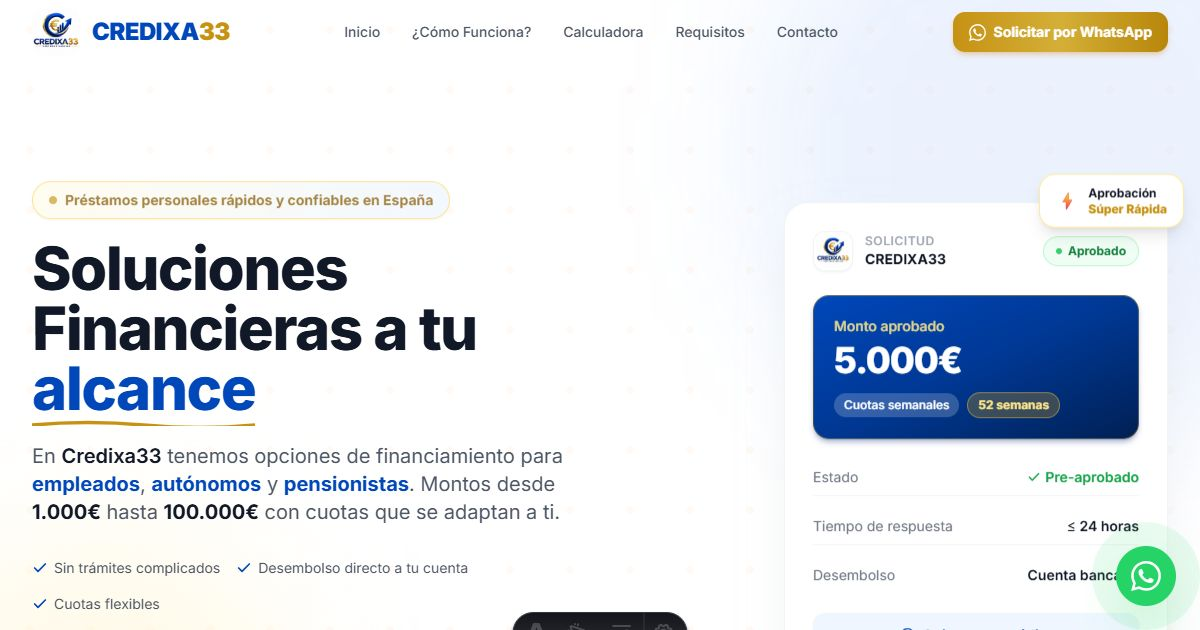
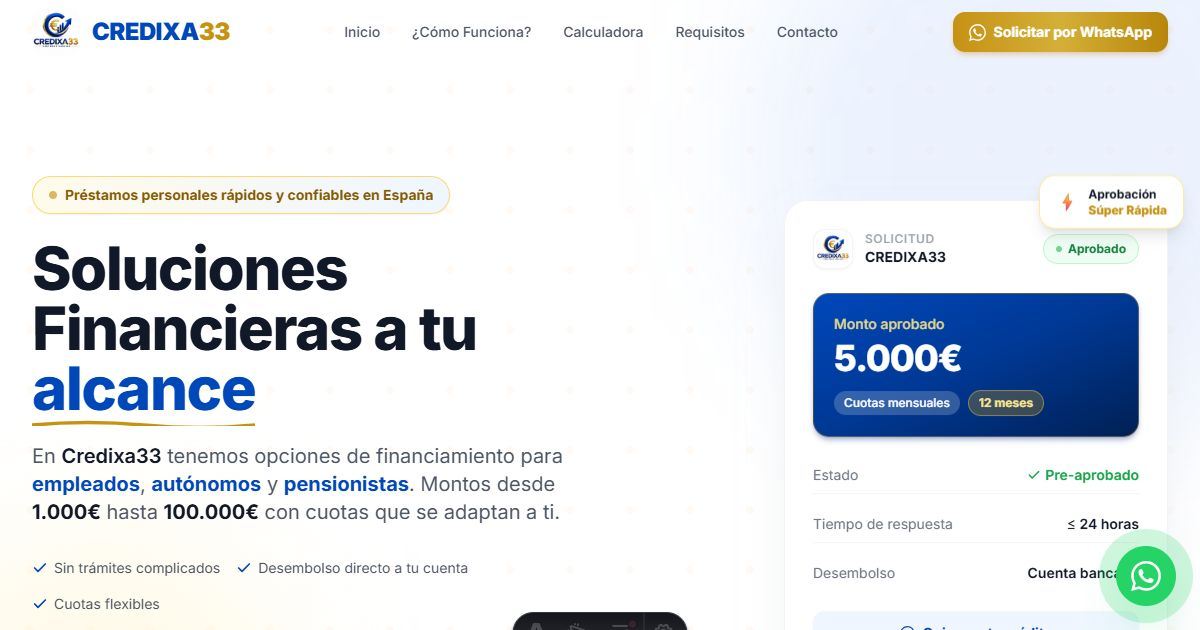
Cambiar frecuencia de prestamos a mensual en toda la web y simulador

diff --git a/src/config/site.ts b/src/config/site.ts
@@ -35,14 +35,14 @@ export const SITE = {
     max: 100_000,   // €
     currency: "€",
     currencyCode: "EUR",
-    paymentFrequency: "Semanal",
+    paymentFrequency: "Mensual",
 
     // Montos de ejemplo para el simulador
     sampleAmounts: [1_000, 5_000, 10_000, 25_000, 50_000, 100_000],
 
-    // Plazos disponibles (en semanas)
+    // Plazos disponibles (en meses)
     terms: {
-      semanal: [4, 8, 12, 24, 36, 52, 78, 104],
+      mensual: [6, 12, 24, 36, 48, 60, 84, 120],
     },
 
     // Tasa de interés mensual de referencia (solo visual / estimada)
@@ -53,10 +53,10 @@ export const SITE = {
   seo: {
     title: "Credixa33 | Préstamos Personales Rápidos en España",
     description:
-      "Préstamos personales rápidos en España con pagos semanales. Aprobación en 24h, montos desde 1.000€ hasta 100.000€. ¡Solicita ahora!",
+      "Préstamos personales rápidos en España con pagos mensuales. Aprobación en 24h, montos desde 1.000€ hasta 100.000€. ¡Solicita ahora!",
     ogImage: "/og-image.jpg",
     keywords:
-      "préstamos personales españa, crédito rápido españa, préstamos en madrid, crédito personal españa, pagos semanales",
+      "préstamos personales españa, crédito rápido españa, préstamos en madrid, crédito personal españa, pagos mensuales",
   },
 
   // ── Navegación ──────────────────────────────────────────────
